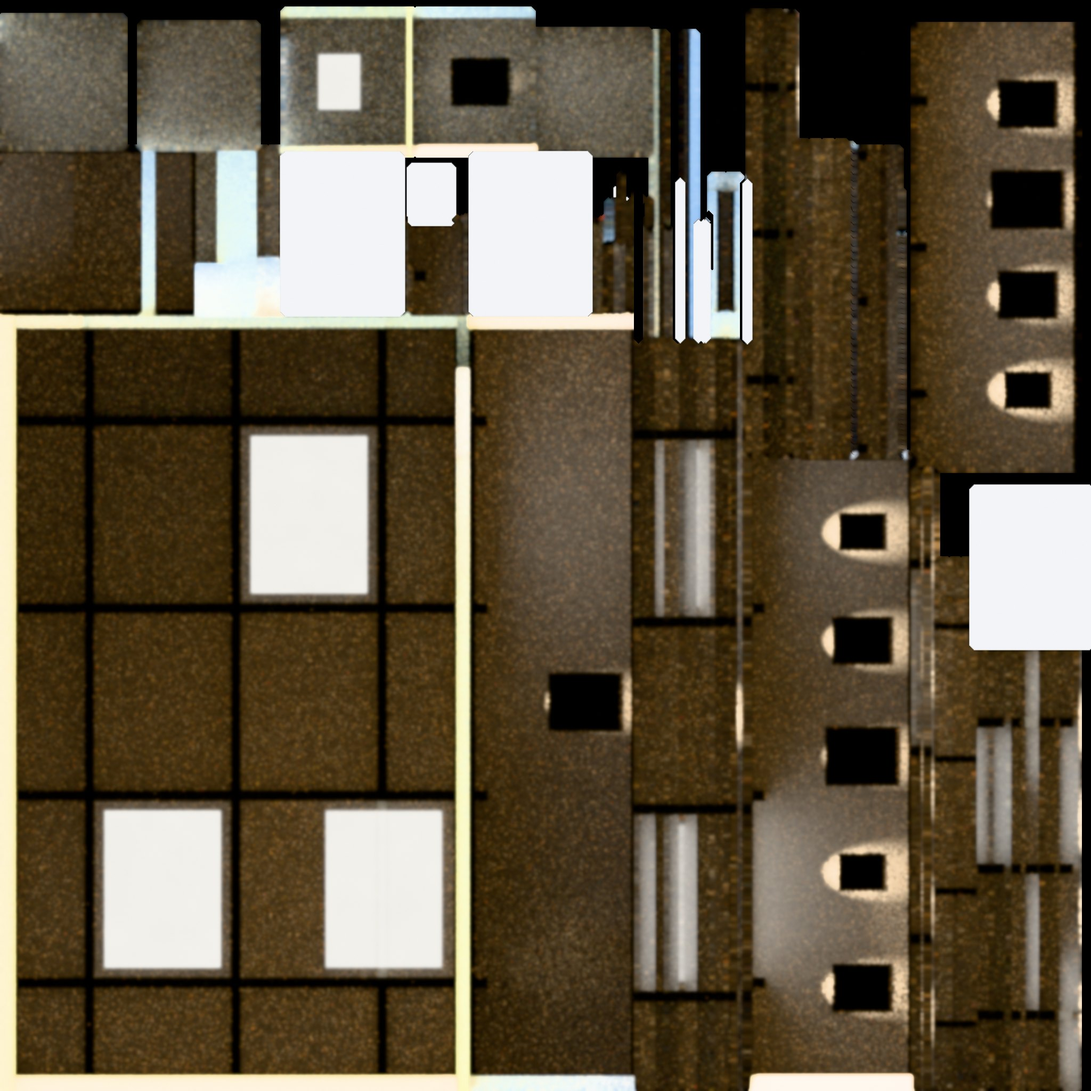
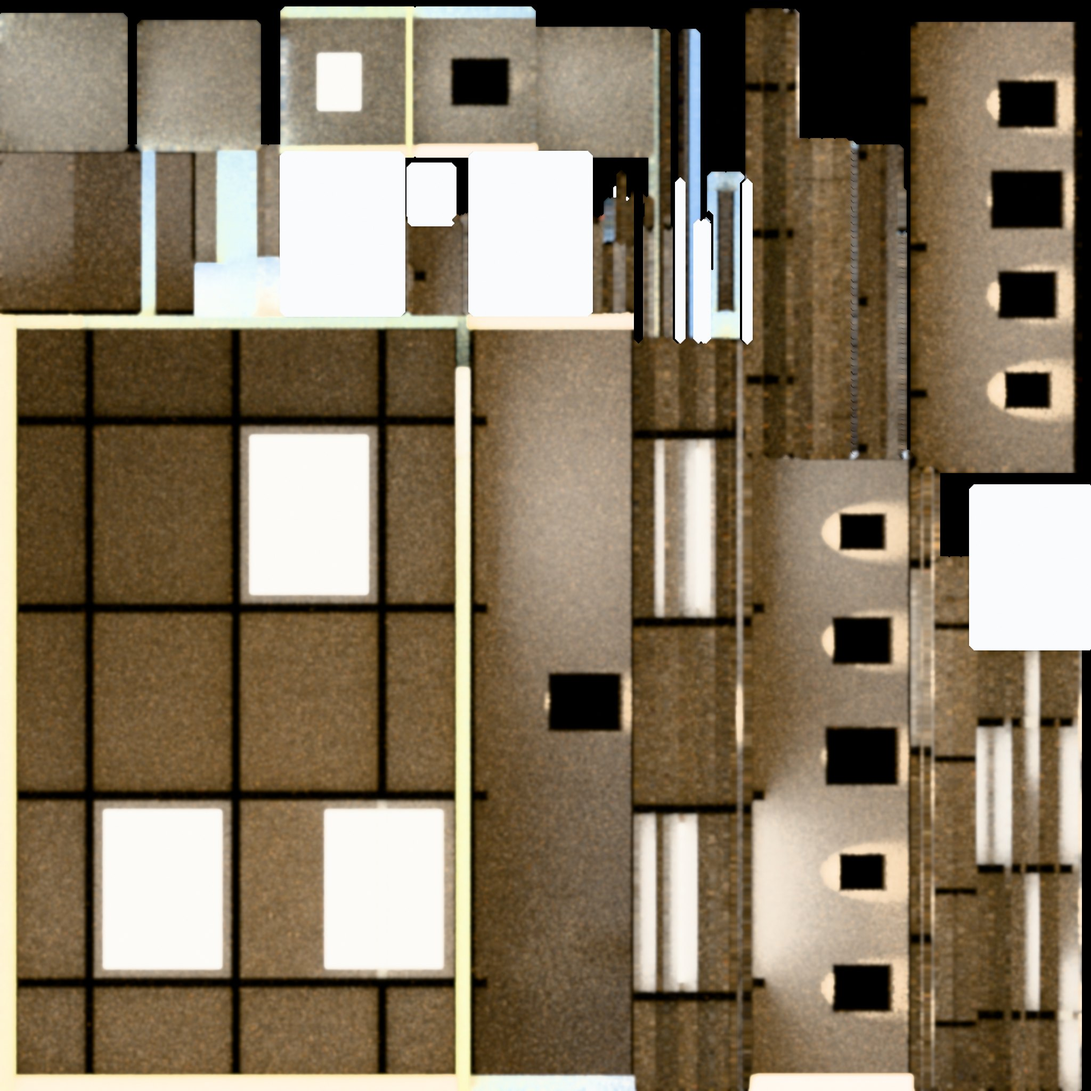
Simplify the hall's exterior to a distant treeline
Claude-Session: https://claude.ai/code/session_017dwd56wQEaT3AsodAZSPLA

diff --git a/blender/build_hall.py b/blender/build_hall.py
@@ -245,8 +245,8 @@ MAT = {
     'terracotta': simple('Terracotta', '#b25a32', 0.5),
     'white': simple('White', '#f1efe9', 0.8),
     'grass': textured('Grass', '#7a8156', 0.95, 0.02, 0.5, noise_scale=25.0),
-    'leaf': textured('Leaf', '#566640', 0.9, 0.02, 0.5, variation=0.8, noise_scale=18.0),
-    'hill': simple('Hill', '#8da0a6', 1.0),
+    'leaf': textured('Leaf', '#6b7a5e', 0.95, 0.02, 0.5, variation=0.8, noise_scale=18.0),
+    'hill': simple('Hill', '#a9b8bd', 1.0),
     'trunk': simple('Trunk', '#3e2f22', 0.9),
 }
 
@@ -464,7 +464,6 @@ make_box('X_Parapet', (0.3, 18.0, 0.95), (HW + T + 3.85, 0, 0.45), MAT['stone'],
 make_box('X_ParapetCap', (0.44, 18.2, 0.06), (HW + T + 3.85, 0, 0.95), MAT['stone'], bevel=0.008, group='exterior')
 LAWN_Z = -1.2
 make_box('X_Lawn', (6000, 6000, 0.4), (0, 0, LAWN_Z - 0.2), MAT['grass'], group='pano')
-make_box('X_Hedge', (1.0, 70, 1.7), (HW + T + 12, 0, LAWN_Z + 0.85), MAT['leaf'], bevel=0.12, group='pano')
 
 
 def blob(name, centre, radius, squash, seed, subdiv=4):
@@ -487,16 +486,14 @@ def blob(name, centre, radius, squash, seed, subdiv=4):
 
 
 rng_t = random.Random(21)
-for i in range(30):
-    tx = 26 + rng_t.random() * 90
-    ty = (rng_t.random() - 0.5) * 150
-    s_ = 3.6 + rng_t.random() * 4.4
-    make_cylinder(f'X_Trunk{i}', 0.2 * s_ / 3, 2.6 * s_ / 3, (tx, ty, LAWN_Z + 1.3 * s_ / 3), MAT['trunk'], segments=10, group='pano')
-    for k in range(5):
-        a_ = rng_t.random() * 6.283
-        d_ = rng_t.random() * 0.55 * s_
-        blob(f'X_Canopy{i}_{k}', (tx + math.cos(a_) * d_, ty + math.sin(a_) * d_, LAWN_Z + 2.6 * s_ / 3 + s_ * (0.55 + 0.5 * rng_t.random())),
-             s_ * (0.55 + 0.3 * rng_t.random()), 0.85, i * 5 + k)
+# One long, soft treeline far across the lawn: many overlapping crowns, muted by distance.
+for i in range(70):
+    tx = 150 + rng_t.random() * 60
+    ty = -260 + i * 7.5 + rng_t.random() * 5
+    s_ = 9 + rng_t.random() * 7
+    for k in range(3):
+        blob(f'X_Canopy{i}_{k}', (tx + rng_t.random() * 8, ty + rng_t.random() * 8, LAWN_Z + s_ * (0.9 + 0.5 * rng_t.random())),
+             s_ * (0.7 + 0.3 * rng_t.random()), 0.8, i * 3 + k, subdiv=3)
 for i, (hx, hy, hs) in enumerate([(420, -220, 60), (470, -40, 80), (430, 190, 58), (560, 60, 95), (500, -130, 74), (380, 20, 40)]):
     bm = bmesh.new()
     bmesh.ops.create_icosphere(bm, subdivisions=4, radius=1.0)
